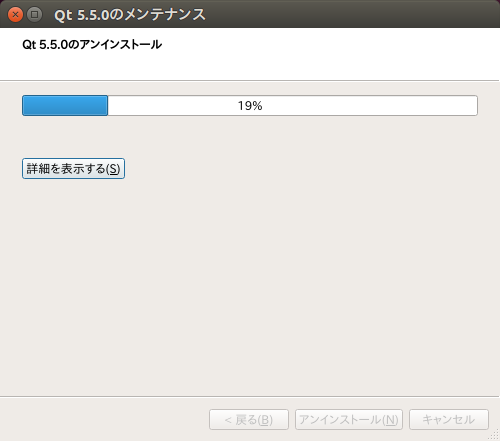
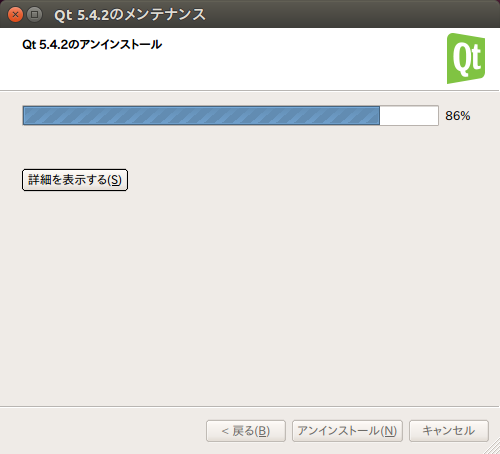
changed Qt version from 5.5.0 to 5.4.2

diff --git a/doc/manual/source/client_setting_ubuntu.rst b/doc/manual/source/client_setting_ubuntu.rst
@@ -23,22 +23,24 @@
 
 (2).Qt5のダウンロード
 ^^^^^^^^^^^^^^^^^^^^^
- [64bit版 Qt5.5.0]
+ [64bit版 Qt5.4.2]
 
- <http://download.qt-project.org/official_releases/qt/5.5/5.5.0/qt-opensource-linux-x64-5.5.0.run>
+ <http://download.qt.io/archive/qt/5.4/5.4.2/qt-opensource-linux-x64-5.4.2.run>
 
- [32bit版 Qt5.5.0]
+ [32bit版 Qt5.4.2]
 
- <http://download.qt-project.org/official_releases/qt/5.5/5.5.0/qt-opensource-linux-x86-5.5.0.run>
+ <http://download.qt.io/archive/qt/5.4/5.4.2/qt-opensource-linux-x86-5.4.2.run>
 
 2. Qt5のインストール
 --------------------------
 
 (1) インストーラ起動
 ^^^^^^^^^^^^^^^^^^^^
-.. image:: images/ubuntu_installer00.png
+..
+ image:: images/ubuntu_installer00.png
 
-.. image:: images/ubuntu_installer01.png
+..
+ image:: images/ubuntu_installer01.png
 
 .. image:: images/ubuntu_installer1.png
 
@@ -78,7 +80,8 @@
 
 root権限でQt5.x.x/MaintenanceToolを実行してください。
 
-.. image:: images/ubuntu_uninstaller0.png
+..
+ image:: images/ubuntu_uninstaller0.png
 
 .. image:: images/ubuntu_uninstaller1.png
 

diff --git a/doc/manual/source/change_logs.rst b/doc/manual/source/change_logs.rst
@@ -7,7 +7,25 @@
 Ver.2.0.0
 ---------
 
+* [新規機能]
 
+ 1. これから
+
+Ver.1.1.1
+---------
+
+* [不具合修正]
+
+ 1. 他のサウンド再生アプリケーションと同時に利用できない不具合への対応
+    (Ubuntu x86版のみ)
+
+* [その他変更]
+
+ 1. サウンド再生の安定性の確保のためQtの環境を5.5.0からQt5.4.2へバージョンダウン
+
+   (*) Ver.1.1.0の[その他変更]の改善は再度無効となる
+
+ 2. ドキュメント修正
 
 Ver.1.1.0
 ---------

diff --git a/doc/manual/source/restriction_and_bug_report.rst b/doc/manual/source/restriction_and_bug_report.rst
@@ -20,6 +20,8 @@
 
      C:\Users\ユーザ名\AppData\Local\VirtualStore\Program Files (x86)\QtBrynhildr\qtbrynhildr.log
 
+ 2. キーボードニーモニックが正しく表示されない場合があります。(Qt5.4の既知の不具合)
+
 3. Ubuntu版のみの制限
 ---------------------
 
